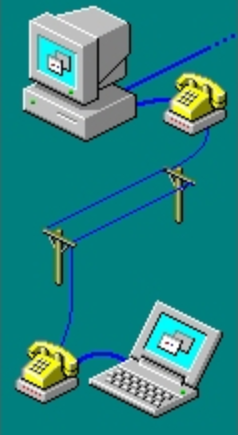
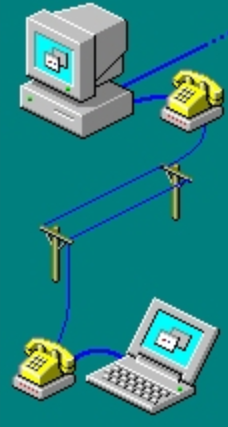
refact: improved loading in of network neighborhood image

diff --git a/src/components/windows/NetworkWindow.jsx b/src/components/windows/NetworkWindow.jsx
@@ -1,6 +1,14 @@
-import React from 'react';
+import React, { useState, useEffect } from 'react';
 
 const NetworkWindow = () => {
+    const [imgSrc, setImgSrc] = useState(null);
+
+    useEffect(() => {
+        const img = new Image();
+        img.src = '/images/networkNeighborhood.png';
+        img.onload = () => setImgSrc(img.src);
+    }, []);
+
     const handleConnect = () => {
         window.open('https://www.linkedin.com/in/jhtconner/', '_blank', 'noopener,noreferrer');
     };
@@ -28,7 +36,10 @@ const NetworkWindow = () => {
                     alt="Network Connection"
                     style={{
                         width: '125px',
-                        height: '220px'
+                        height: '220px',
+                        display: 'block',
+                        border: 'none',
+                        visibility: imgSrc ? 'visible' : 'hidden',
                     }}
                 />
             </div>

diff --git a/src/components/windows/RecycleBinWindow.jsx b/src/components/windows/RecycleBinWindow.jsx
@@ -59,7 +59,7 @@ const GitHubButton = ({ href, label, icon }) => {
             style={{
                 display: 'inline-flex',
                 alignItems: 'center',
-                padding: '4px 8px',
+                padding: '7px 12px',
                 backgroundColor: '#C0C0C0',
                 color: '#000000',
                 border: '2px outset #DFDFDF',

diff --git a/src/components/windows/ComputerWindow.jsx b/src/components/windows/ComputerWindow.jsx
@@ -149,7 +149,7 @@ const CommandPrompt = () => {
             backgroundColor: '#000',
             color: '#15f71c',
             fontFamily: 'Courier New, monospace',
-            fontSize: '13px',
+            fontSize: '11px',
             height: '175%',
             width: '100%',
             margin: '-15px',
